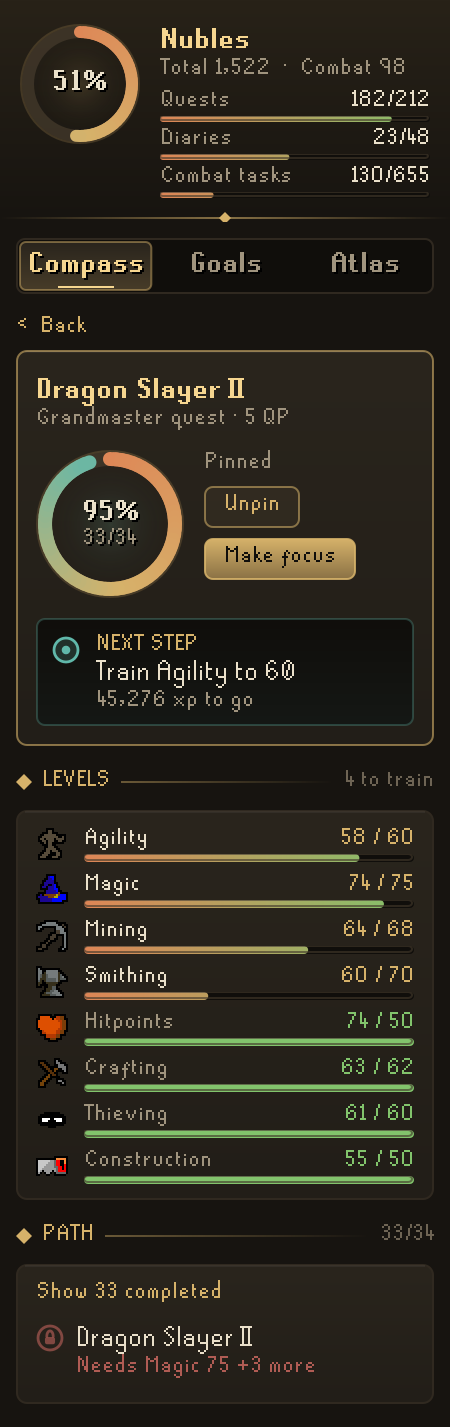
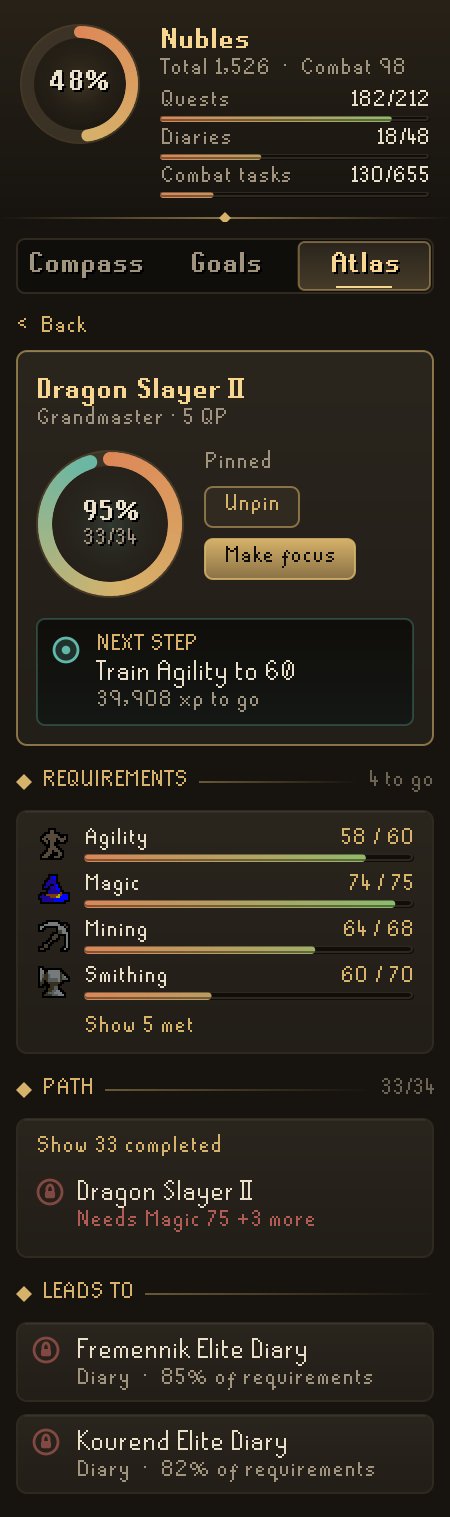
Refresh screenshots and document diaries, free worlds and settings

diff --git a/README.md b/README.md
@@ -13,11 +13,17 @@ It is the first plugin in the **Codex** suite: a family of RuneLite plugins that
 ## What it does
 
 - **Account crest.** One ring for your whole account, plus ledgers for quests, diaries and combat achievement tasks.
-- **Compass.** Your focus goal and its next step, followed by quests in progress, the quests worth starting right now (ranked by how much they unlock), quests held back by only a few levels, and your closest diaries.
-- **Goals.** Pin any quest, diary tier or the quest cape. The first pin is your focus; every goal shows its progress and next step.
+- **Compass.** Your focus goal and its next step, followed by quests in progress, the quests worth starting right now (ranked by how much they unlock), quests held back by only a few levels, and the diaries within reach.
+- **Goals.** Pin any quest, diary tier or the quest cape. The first pin is your focus; every goal shows its progress and next step. Finished goals move to a Completed list, and a line in your chatbox tells you the moment one is done.
 - **Atlas.** Search and filter every quest, see each area's diary tiers as seals, and track combat achievement tiers.
-- **Path pages.** Open any goal to see every level it needs with live bars, and every quest on the way as a timeline: done, in progress, ready, or blocked and by what.
+- **Path pages.** Open any goal to see every level, quest point and combat level it still needs with live bars, every quest on the way as a timeline (done, in progress, ready, or blocked and by what), and for a quest, what finishing it leads to.
 - **In-game plaque.** A small overlay with your focus and its next step. With nothing pinned it suggests the best quest to start.
+
+### Good to know
+
+- **Diaries.** The client tells the Codex which diary tiers are complete, but not which of their tasks you have done. Once every level and quest a tier needs is met, the Codex says **Tasks** rather than showing a 99% it cannot measure.
+- **Free worlds.** On a free-to-play world, only free quests are suggested and diaries are left out, since they cannot be started there.
+- **Logged out.** Goals you pin while logged out are added to your account's goals when you next log in.
 
 <p align="center">
   <img src="docs/screenshots/9-overlay.png" width="300" alt="Focus overlay">
@@ -25,7 +31,16 @@ It is the first plugin in the **Codex** suite: a family of RuneLite plugins that
 
 ## Rules posture
 
-Codex Navigator only reads client state you can already see (quest states, varbits, levels) and draws its own panel and overlay. It does not click, move items, change menus, send chat or touch the network. Nothing leaves your computer, and pinned goals are saved per account in your RuneLite profile.
+Codex Navigator only reads client state you can already see (quest states, varbits, levels) and draws its own panel and overlay. It does not click, move items, change menus, send chat or touch the network. Nothing leaves your computer, and pinned goals are saved per account (and per game mode, such as Leagues) in your RuneLite profile.
+
+## Settings
+
+| Setting | Default | What it does |
+| --- | --- | --- |
+| Show focus in game | On | The in-game plaque with your focus and its next step. |
+| Suggest when unfocused | On | With nothing pinned, the plaque suggests the best quest to start. |
+| Include miniquests | On | Lists and suggests miniquests alongside quests. |
+| Announce finished goals | On | A chatbox line the moment a pinned goal is complete. |
 
 ## Data
 
